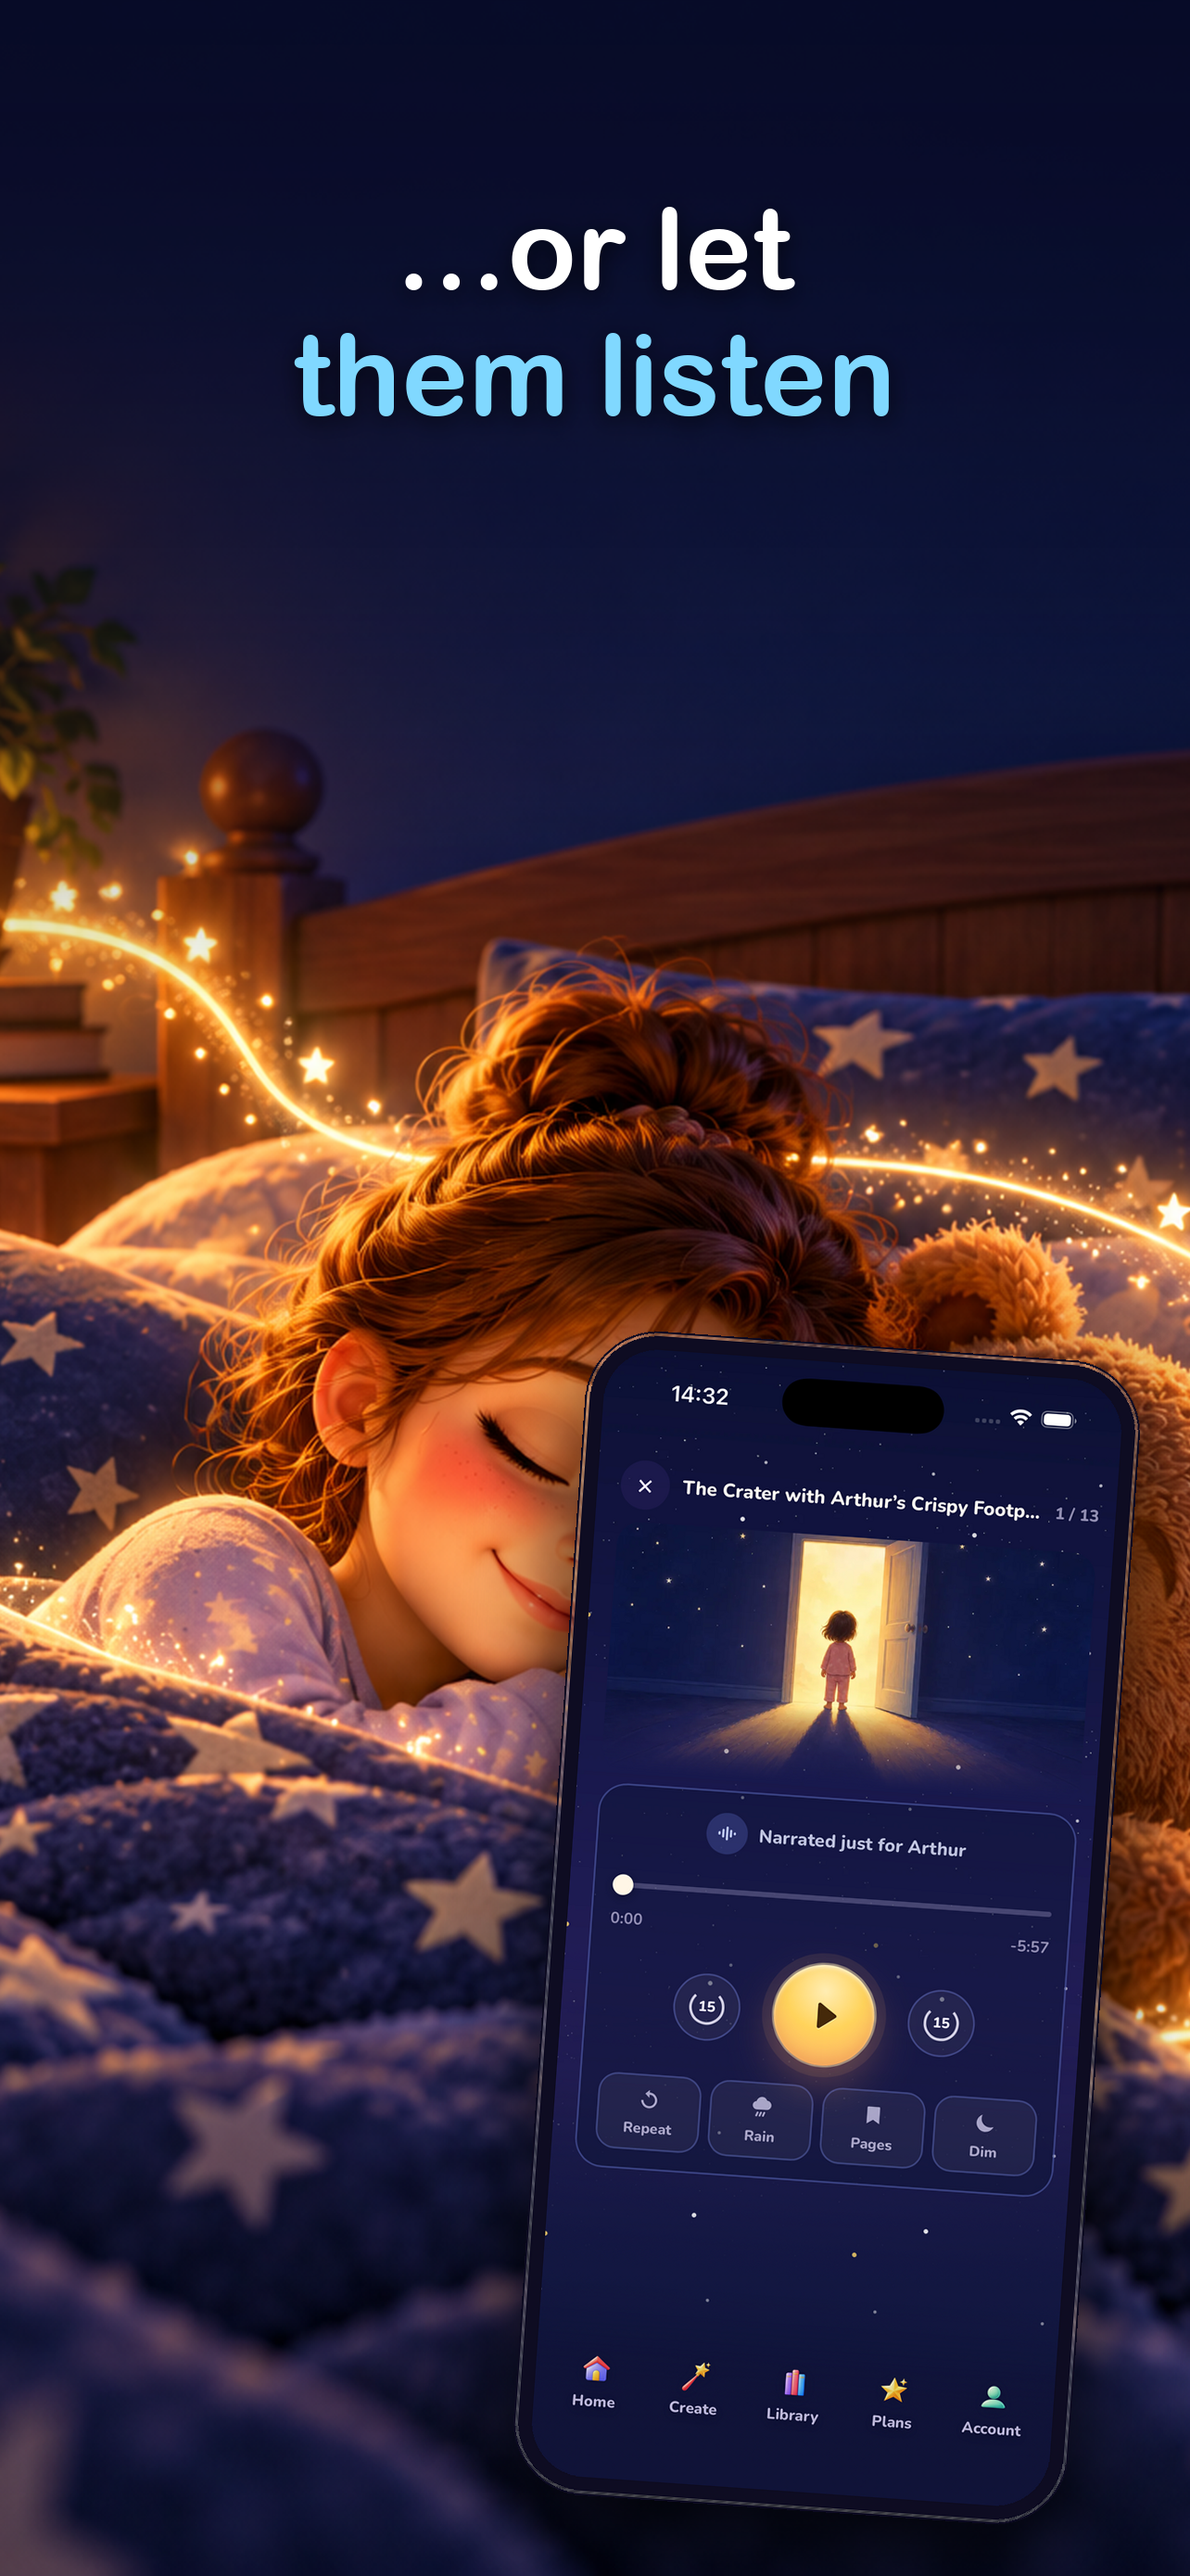
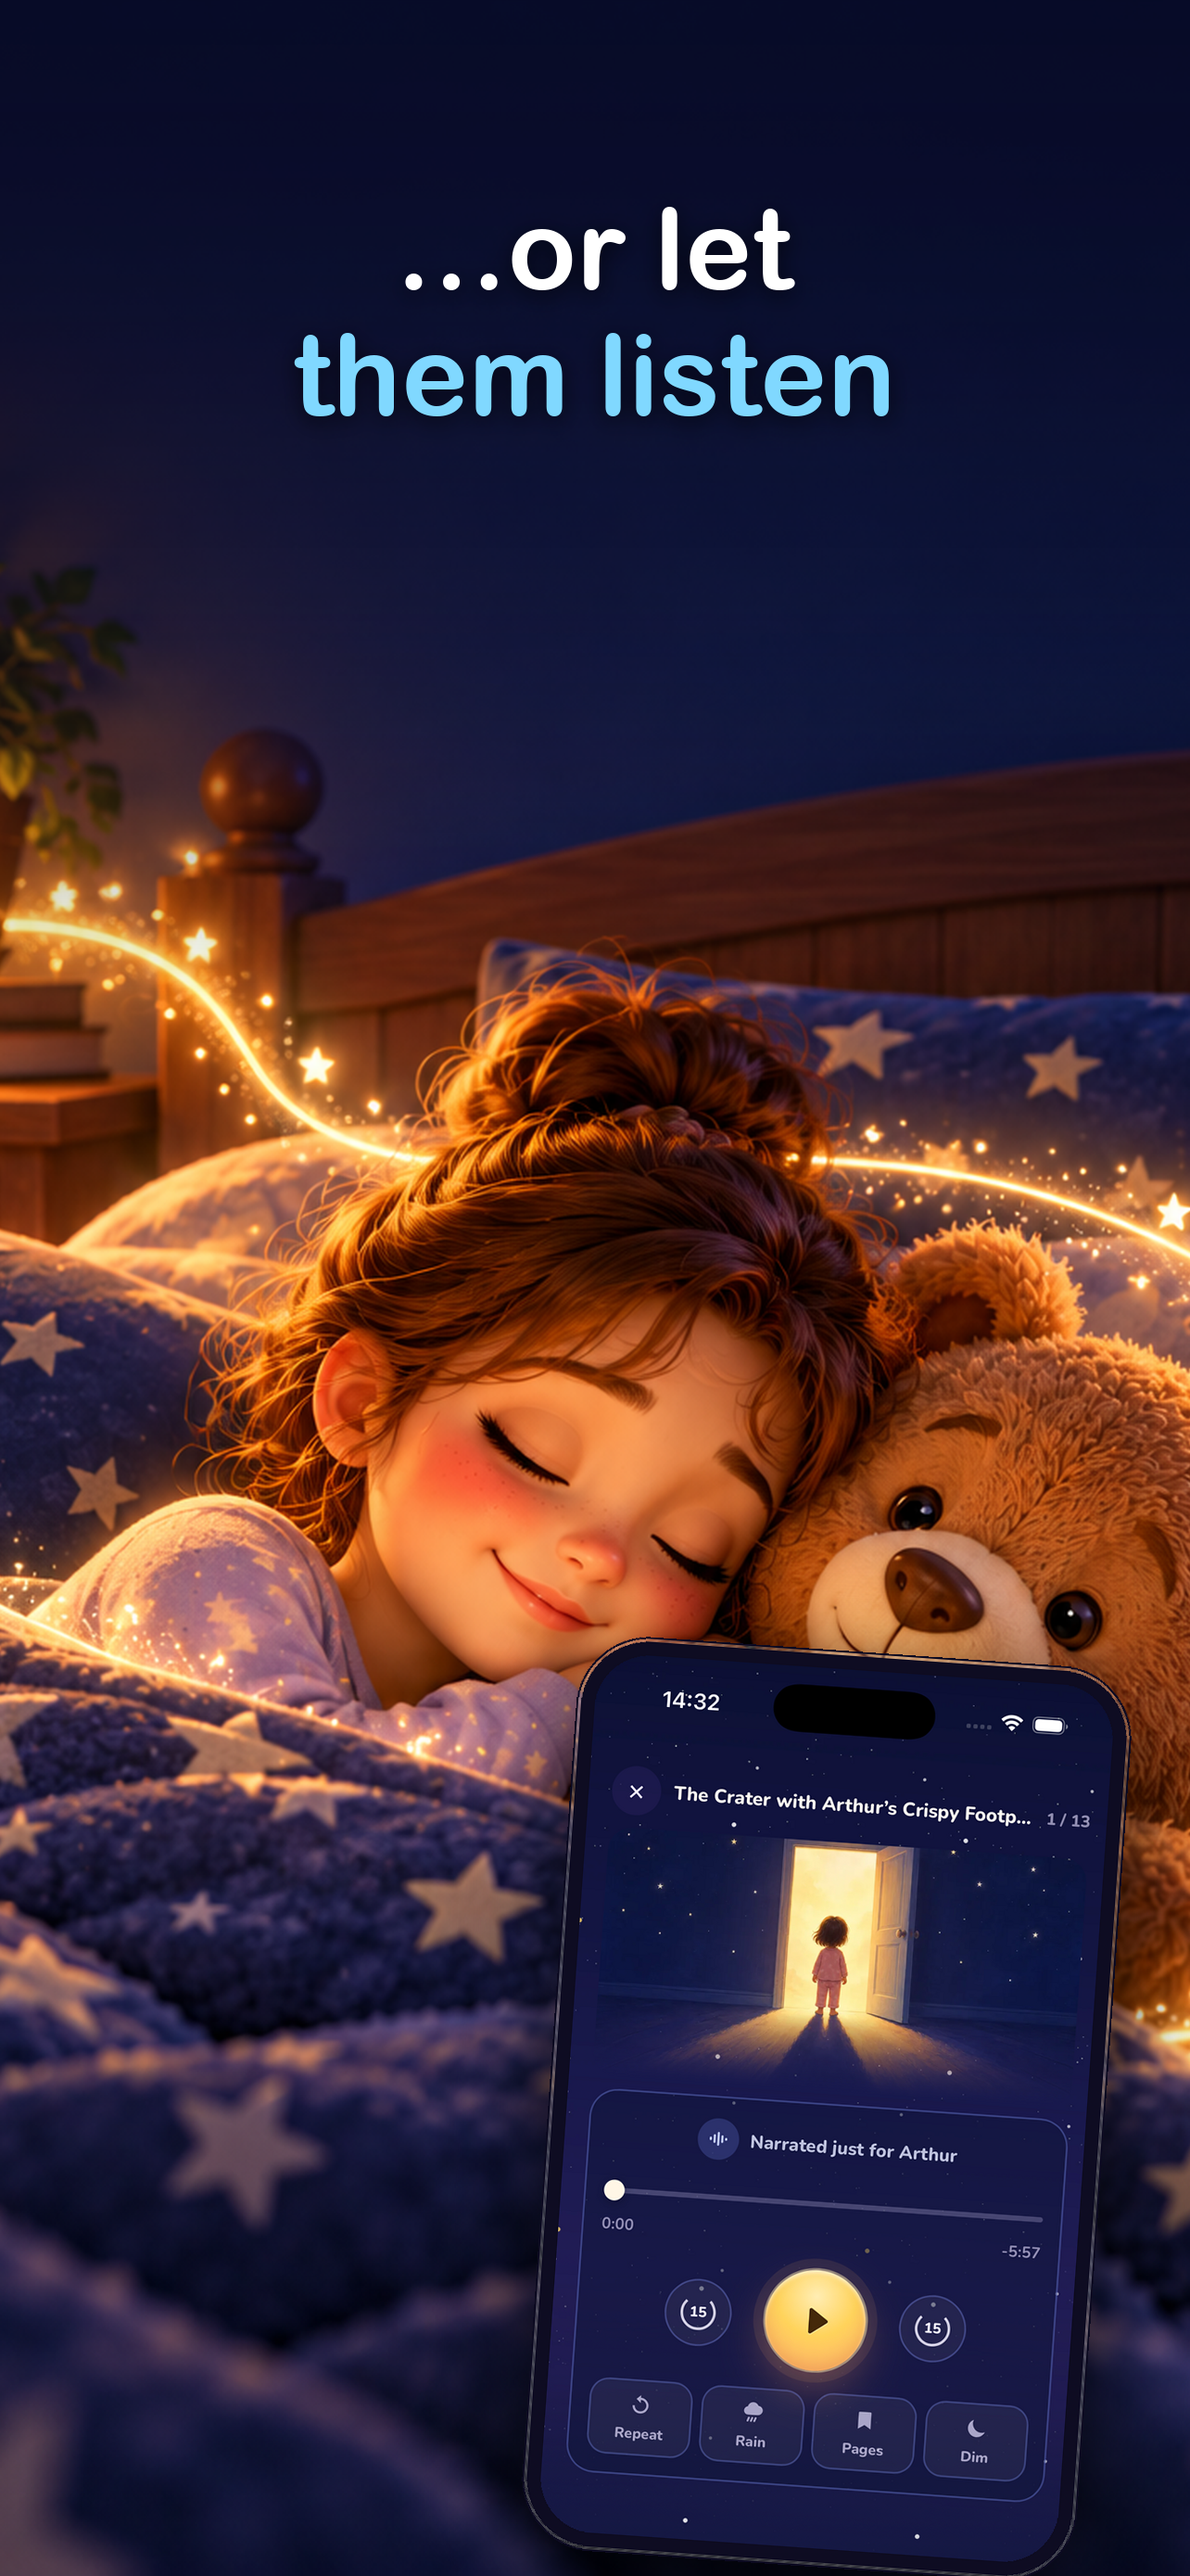
Move the phones off the faces
Both phones sat across a face - the teddy's in one, the bear's in the
other. They drop to the duvet and the books instead, and are cropped at the
bottom rather than shrunk, so the player still shows its transport and the
library still shows two rows of covers.

The faces are the reason anyone looks at these.

Changed region(s): [[0.4361, 0.4953, 0.9969, 1.0]]

diff --git a/scripts/build-ios-illustrated-screenshots.py b/scripts/build-ios-illustrated-screenshots.py
@@ -28,20 +28,23 @@ HEAD_TOP, HEAD_SIZE, HEAD_GAP = 196, 122, 14
 BEZEL, RADIUS = 20, 78
 
 # (output, artwork, accent, headline lines, phone or None, extras)
-# A phone is (ui capture, screen width, centre x, top y, tilt).
+# A phone is (ui capture, screen width, centre x, top y, tilt, crop_bottom).
+# The phones sit low and are cropped rather than shrunk: the artwork's faces
+# are the reason anyone looks at these, and a phone over a face is the one
+# thing that makes a store panel feel like a mock-up instead of a bedtime.
 SCREENS = [
     ("01-read-together.png", "01-read-together.png", "gold",
      [("Read it", False), ("together…", True)], None, "brand"),
     ("02-let-them-listen.png", "02-let-them-listen.png", "sky",
      [("…or let", False), ("them listen", True)],
-     ("ui-player.png", 560, WIDTH // 2 + 250, 1430, -4), None),
+     ("ui-player.png", 560, WIDTH // 2 + 250, 1760, -4, 580), None),
     ("03-theyre-the-star.png", "03-theyre-the-star.png", "pink",
      [("They’re", False), ("the star…", True)], None, None),
     ("04-anything-they-love.png", "04-anything-they-love.png", "mint",
      [("…in anything", False), ("they love", True)], None, None),
     ("05-every-night.png", "05-new-story-every-night.png", "lilac",
      [("A new story", False), ("every night", True)],
-     ("ui-library.png", 580, WIDTH // 2, 1300, 0), None),
+     ("ui-library.png", 530, WIDTH // 2 + 110, 1700, 0, 520), None),
     ("06-drift-off.png", "06-until-they-drift-off.png", "peach",
      [("…until", False), ("they drift off", True)], None, None),
 ]
@@ -71,9 +74,9 @@ def build(output, art_name, accent_name, lines, phone, extras):
     d.draw_headline(canvas, HEAD_TOP, lines, accent, HEAD_SIZE, HEAD_GAP)
 
     if phone:
-        ui_name, screen_w, centre_x, top_y, tilt = phone
+        ui_name, screen_w, centre_x, top_y, tilt, crop_bottom = phone
         source = Image.open(UI_DIR / ui_name).convert("RGBA")
-        frame, _ = d.device(source, screen_w, BEZEL, RADIUS)
+        frame, _ = d.device(source, screen_w, BEZEL, RADIUS, crop_bottom=crop_bottom)
         shadow, pad = d.soft_shadow(frame.size, RADIUS, blur=52, alpha=215)
         if tilt:
             frame = frame.rotate(tilt, resample=Image.Resampling.BICUBIC, expand=True)
